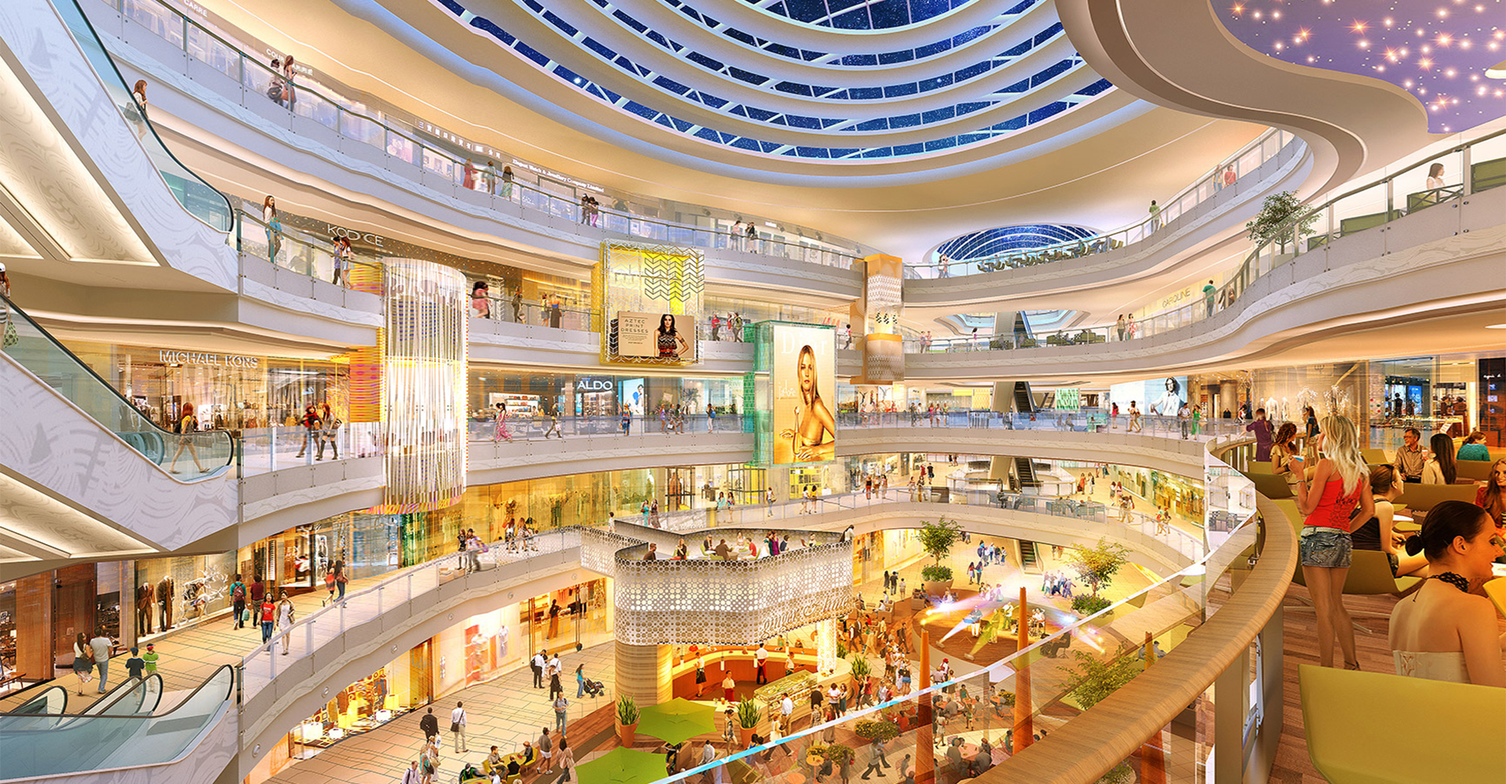
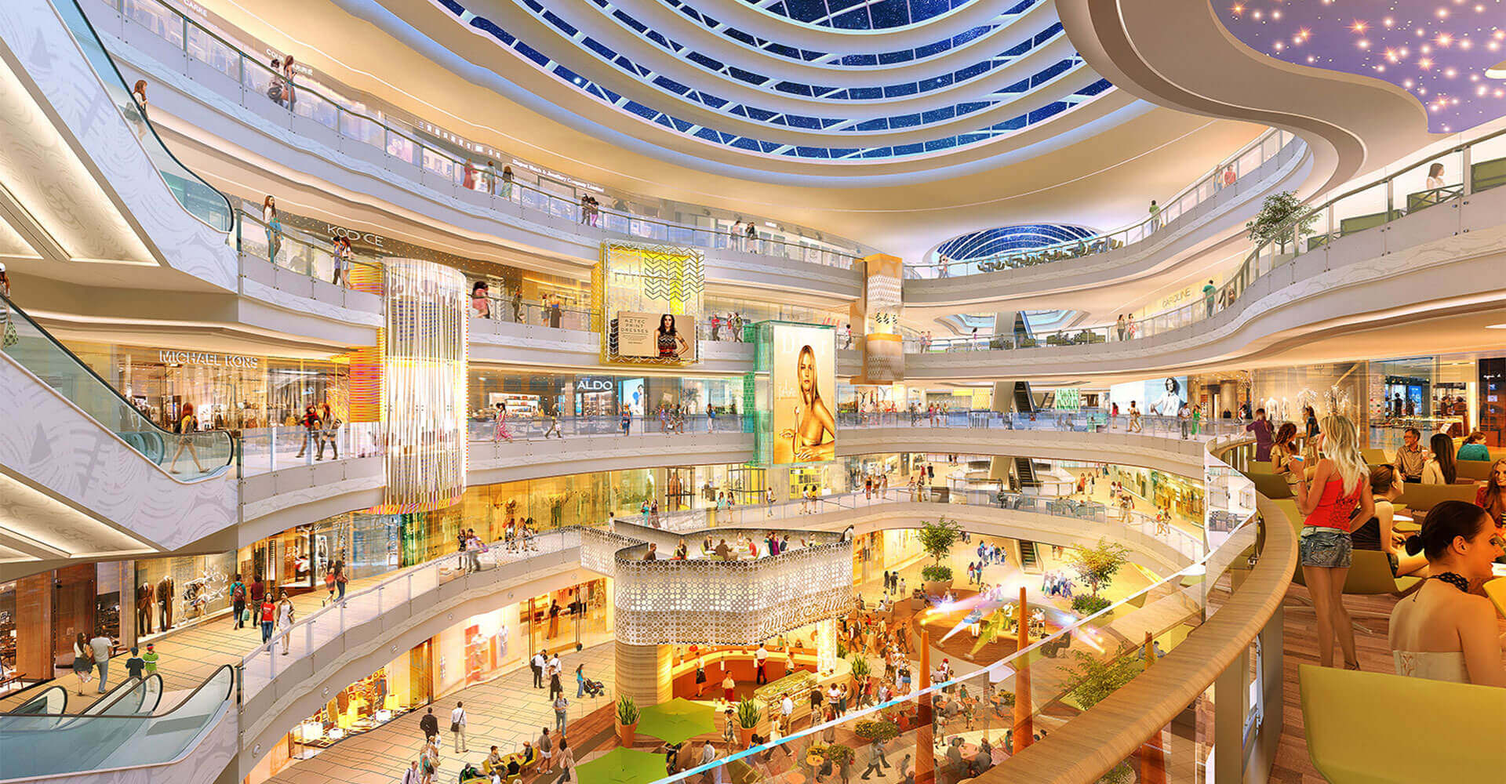
upload

diff --git a/css/index.css b/css/index.css
@@ -1,1 +1,1 @@
-body{overflow-x:hidden}.wrapper{overflow:hidden;width:100%;height:100%;position:relative}.cover{background-size:cover;background-position:50%;background-repeat:no-repeat;width:100%;height:100%;background-attachment:fixed}.absolute{position:absolute}.shadom_20{box-shadow:0 0 20px rgba(0,0,0,.7)}.shadom_10{box-shadow:0 0 10px rgba(0,0,0,.7)}div[class*=section]{width:100vw;height:100vh;overflow:hidden;position:relative}.ground{background-image:url(../images/banner.png)}div.section_1{min-height:538vh}div.section_2 .pro{width:110%;height:110%;background-image:url(../images/s1.png)}div.section_3{height:100vh}div.section_3 .pro{width:100%;height:100%;background-image:url(../images/s3.png);background-attachment:inherit}div[class*=motion]{width:100vw;height:110vh}.double .motion_0{height:100vh;top:0;left:0;background-color:#000}.double .motion_0 .test{display:inline-block;float:left}.double .motion_0 .wrapper{width:400vw}.double .motion_0 .img1{width:100vw;height:100%;background-image:url(../images/s0.jpg);background-position:center;background-size:auto 130%;float:left;z-index:0}.double .motion_0 .desc_1{width:636px;height:100%;background-image:url(../images/s0_2.png);float:left;z-index:2;color:#fff}.double .motion_0 .desc_1 .desc-box{width:370px;height:330px;left:-22%}.double .motion_0 .desc_1 h2{font-size:103px;font-weight:bolder;font-family:'Century Gothic'}.double .motion_0 .desc_1 span{display:inline-block;font-size:32px;margin:10px 0 20px}.double .motion_0 .desc_1 p{font-size:16px;line-height:26px;color:#fff;margin-bottom:30px}.double .motion_0 .desc_1 .line{width:52px;height:6px;background:#fff}.double .motion_0 .desc_2{width:636px;height:100%;background-image:url(../images/s0_4.png);float:left;z-index:2;color:#fff}.double .motion_0 .desc_2 .desc-box{width:370px;height:330px;left:-22%}.double .motion_0 .desc_2 h2{font-size:103px;font-weight:bolder;font-family:'Century Gothic'}.double .motion_0 .desc_2 span{display:inline-block;font-size:32px;margin:10px 0 20px}.double .motion_0 .desc_2 p{font-size:16px;line-height:26px;color:#fff;margin-bottom:30px}.double .motion_0 .desc_2 .line{width:52px;height:6px;background:#fff}.double .motion_0 .desc_3{width:636px;height:100%;background-image:url(../images/s0_4.png);float:left;z-index:2;color:#fff}.double .motion_0 .desc_3 .desc-box{width:370px;height:330px;left:-22%}.double .motion_0 .desc_3 h2{font-size:103px;font-weight:bolder;font-family:'Century Gothic'}.double .motion_0 .desc_3 span{display:inline-block;font-size:32px;margin:10px 0 20px}.double .motion_0 .desc_3 p{font-size:16px;line-height:26px;color:#fff;margin-bottom:30px}.double .motion_0 .desc_3 .line{width:52px;height:6px;background:#fff}.double .motion_0 .img2{width:100vw;height:100%;transform:translateX(100%);background-image:url(../images/s0_1.jpg);background-repeat:no-repeat;background-position:center;background-size:auto 115%;float:left;z-index:1}.double .motion_0 .img3{width:100vw;height:100%;transform:translateX(100%);background-image:url(../images/s0_2.jpg);background-repeat:no-repeat;background-position:center;background-size:auto 125%;float:left;z-index:1}.double .motion_0 .img4{width:100vw;height:100%;transform:translateX(100%);background-image:url(../images/s0_3.jpg);background-repeat:no-repeat;background-position:center;background-size:auto 120%;float:left;z-index:1}.double .motion_1{height:110vh;top:0;left:0;z-index:0}.double .motion_1 .pro{width:100%;height:100%;background-image:url(../images/s2.jpg);background-attachment:inherit}.double .motion_1 .img1{position:absolute;top:0;left:0;width:100%;height:100%;background:url(../images/s2_1.png)}.double .motion_1 .img2{position:absolute;top:0;left:0;width:100%;height:100%;background:url(../images/s2_2.png)}.double .motion_1 .desc{text-align:center;color:#004d8e;height:180px}.double .motion_1 .desc h2{font-size:65px;font-weight:lighter}.double .motion_1 .desc .font{font-size:65px}.double .motion_1 .desc em{font-weight:700}.double .motion_1 .desc span{font-weight:400}.double .motion_3{top:0;left:0}.double .motion_3 .pro{width:100%;height:100%;background-image:url(../images/s1.png);background-attachment:inherit}.double .motion_3 .img1{position:absolute;right:-32%;top:-32%;width:1580px;height:auto}.double .motion_3 .img1 .cicle-img{position:absolute;width:1283px;height:1100px;top:16%;right:10%;background:url(../images/s1_2.png) no-repeat center top/cover;background-size:110%;z-index:-1}.double .motion_3 .img2{width:663px;height:735px;right:-25%;top:-14%}.double .motion_3 .img3{width:196px;height:211px;right:-40%;top:-164%}.double .motion_3 .img4{width:156px;height:330px;right:-60%;top:-160%}.double .motion_3 .img5{width:203px;height:273px;top:-35%;left:-15%}.double .motion_3 .img6{width:164px;height:274px;top:0;margin-left:0}.double .motion_3 .desc{width:550px;height:340px;color:#fff;left:-38%;top:-23%}.double .motion_3 .desc h3{font-size:106px;text-transform:uppercase;font-family:'Century Gothic';font-weight:bolder;line-height:95px}.double .motion_3 .desc p{font-weight:bolder;font-size:50px;color:#ff6000;margin:10px 0}.double .motion_3 .desc span{display:inline-block;font-size:16px;line-height:28px;width:79%}.double .motion_3 .desc .more{cursor:pointer;background:#ff6000;font-size:16px;text-align:center;width:82px;height:82px;border-radius:50%;padding-top:13px;margin-top:15px}.double .motion_3 .desc .more i{display:inline-block;background:url(../images/icon1.png) no-repeat center;width:37px;height:34px}.double .motion_2{top:0;left:0}.double .motion_2 .pro{width:100%;height:100%;background-image:url(../images/s3.png);background-attachment:inherit}.double .motion_4{top:0;left:0;z-index:0}.double .motion_4 .pro{width:100%;height:100%;background-image:url(../images/s4.png);background-attachment:inherit}.double .motion_4 .img1{left:-100%;top:-26%;width:1510px;height:auto}.double .motion_4 .img2{left:-25%;top:10%;height:auto;width:964px;height:573px;z-index:1}.double .motion_4 .img3{left:-10%;top:-46%;height:auto;width:78px;height:110px;z-index:0}.double .motion_4 .img4{right:-30%;top:70%;height:auto;width:560px;height:409px;margin-right:0}.double .motion_4 .img5{right:0;top:45%;height:auto;width:176px;height:201px;margin-right:0}.double .motion_4 .img6{right:27%;bottom:15%;height:auto;width:110px;height:58px;margin-bottom:0;margin-right:0}.double .motion_4 .desc{width:610px;height:340px;color:#fff;left:65%;top:-13%}.double .motion_4 .desc h3{font-size:79px;text-transform:uppercase;font-family:'Century Gothic';font-weight:bolder;line-height:70px}.double .motion_4 .desc p{font-weight:bolder;font-size:40px;color:#fff;margin:10px 0}.double .motion_4 .desc span{display:inline-block;font-size:16px;line-height:28px;width:79%}.double .motion_4 .desc .more{cursor:pointer;background:#007954;font-size:16px;text-align:center;width:82px;height:82px;border-radius:50%;padding-top:13px;margin-top:15px}.double .motion_4 .desc .more i{display:inline-block;background:url(../images/icon1.png) no-repeat center;width:37px;height:34px}.double .motion_5{top:0;left:0}.double .motion_5 .pro{width:100%;height:100%;background-image:url(../images/s5.png);background-attachment:inherit}.double .motion_6{top:0;left:0;z-index:0;overflow:hidden}.double .motion_6 .pro{width:100%;height:100%;background-image:url(../images/s6.png);background-attachment:inherit}.double .motion_6 .img1{left:-115%;top:-81%;width:2435px;height:auto}.double .motion_6 .img2{left:-23%;top:17%;width:466px;height:466px;z-index:1}.double .motion_6 .img-box{z-index:1}.double .motion_6 .img3{left:-31%;top:-26%;width:568px;height:490px;z-index:0}.double .motion_6 .img4{left:58%;top:-38%;width:71px;height:86px;z-index:0}.double .motion_6 .img5{left:13%;top:-32%;width:224px;height:235px;z-index:0}.double .motion_6 .img6{left:12%;top:14%;width:147px;height:109px;z-index:0}.double .motion_6 .img7{left:-36%;top:16%;width:705px}.double .motion_6 .cicle{width:890px;height:110vh;background:url(../images/s6_7.png) no-repeat center/cover;background-size:110%}.double .motion_6 .desc{width:460px;height:340px;color:#fff;left:55%;top:-12%;z-index:1}.double .motion_6 .desc h3{font-size:84px;text-transform:uppercase;font-family:'Century Gothic';font-weight:bolder;line-height:82px}.double .motion_6 .desc p{font-weight:bolder;font-size:30px;color:#f34456;margin:20px 0}.double .motion_6 .desc span{display:inline-block;font-size:14px;line-height:28px;width:79%;color:#f34456;font-family:'Century Gothic'}.double .motion_6 .desc .more{cursor:pointer;background:#ff9ead;font-size:16px;text-align:center;width:82px;height:82px;border-radius:50%;padding-top:13px;margin-top:15px}.double .motion_6 .desc .more i{display:inline-block;background:url(../images/icon1.png) no-repeat center;width:37px;height:34px}.double .motion_6 .desc .more>div{color:#fff}.motion_2 .pro{width:100%;height:100%;background-image:url(../images/motion_2_w.jpg);background-attachment:inherit}.motion_2 .img1{z-index:50;width:706px;height:706px}.motion_2 .img2{position:absolute;left:78%;top:35%;transform:translate(-78%,-35%)}.motion_2 .img3{position:absolute;left:78.25%;top:75.5%;transform:translate(-78.25%,-75.5%)}.motion_2 .img4{position:absolute;left:22.5%;top:35%;transform:translate(-22.5%,-35%)}.motion_2 .img5{position:absolute;left:22.5%;top:77%;transform:translate(-22.5%,-77%)}.motion_5 .img1{position:absolute;right:0;top:0}.motion_5 .img2{position:absolute;left:34.7%;top:25.5%}.motion_5 .img3{position:absolute;left:34.7%;top:17%}.motion_5 .img3-cicle{position:absolute;right:0;top:0}.motion_5 .img3-cicle-1{right:12%;top:15%}.motion_5 .img3-cicle-2{right:7%;top:12.5%}.motion_5 .img3-cicle-3{right:6.2%;top:6.3%}.motion_5 .img3-arrow{position:absolute;left:-13%;bottom:11%}.motion_5 .img4{position:absolute;left:76.7%;top:6%}.double .motion_5 .desc{width:550px;height:340px;color:#f72a64;left:-38%;top:-23%}.double .motion_5 .desc h3{font-size:86px;text-transform:uppercase;font-family:'Century Gothic';font-weight:bolder;line-height:70px}.double .motion_5 .desc p{font-size:50px;color:#f72a64;margin:25px 0 20px}.double .motion_5 .desc span{display:inline-block;font-size:16px;line-height:28px;color:#fff;width:79%}.double .motion_5 .desc .more{cursor:pointer;background:#f72a64;font-size:16px;text-align:center;color:#fff;width:82px;height:82px;border-radius:50%;padding-top:13px;margin-top:15px}.double .motion_5 .desc .more i{display:inline-block;background:url(../images/icon1.png) no-repeat center;width:37px;height:34px}.parallax{transform:translate3d(0,0,0)}
+body{overflow-x:hidden}.wrapper{overflow:hidden;width:100%;height:100%;position:relative}.cover{background-size:cover;background-position:50%;background-repeat:no-repeat;width:100%;height:100%;background-attachment:fixed}.absolute{position:absolute}.shadom_20{box-shadow:0 0 20px rgba(0,0,0,.7)}.shadom_10{box-shadow:0 0 10px rgba(0,0,0,.7)}div[class*=section]{width:100vw;height:100vh;overflow:hidden;position:relative}.ground{background-image:url(../images/banner.jpg)}div.section_1{min-height:538vh}div.section_2 .pro{width:110%;height:110%;background-image:url(../images/s1.png)}div.section_3{height:100vh}div.section_3 .pro{width:100%;height:100%;background-image:url(../images/s3.png);background-attachment:inherit}div[class*=motion]{width:100vw;height:110vh}.double .motion_0{height:100vh;top:0;left:0;background-color:#000}.double .motion_0 .test{display:inline-block;float:left}.double .motion_0 .wrapper{width:400vw}.double .motion_0 .img1{width:100vw;height:100%;background-image:url(../images/s0.jpg);background-position:center;background-size:auto 130%;float:left;z-index:0}.double .motion_0 .desc_1{width:636px;height:100%;background-image:url(../images/s0_2.png);float:left;z-index:2;color:#fff}.double .motion_0 .desc_1 .desc-box{width:370px;height:330px;left:-22%}.double .motion_0 .desc_1 h2{font-size:103px;font-weight:bolder;font-family:'Century Gothic'}.double .motion_0 .desc_1 span{display:inline-block;font-size:32px;margin:10px 0 20px}.double .motion_0 .desc_1 p{font-size:16px;line-height:26px;color:#fff;margin-bottom:30px}.double .motion_0 .desc_1 .line{width:52px;height:6px;background:#fff}.double .motion_0 .desc_2{width:636px;height:100%;background-image:url(../images/s0_4.png);float:left;z-index:2;color:#fff}.double .motion_0 .desc_2 .desc-box{width:370px;height:330px;left:-22%}.double .motion_0 .desc_2 h2{font-size:103px;font-weight:bolder;font-family:'Century Gothic'}.double .motion_0 .desc_2 span{display:inline-block;font-size:32px;margin:10px 0 20px}.double .motion_0 .desc_2 p{font-size:16px;line-height:26px;color:#fff;margin-bottom:30px}.double .motion_0 .desc_2 .line{width:52px;height:6px;background:#fff}.double .motion_0 .desc_3{width:636px;height:100%;background-image:url(../images/s0_4.png);float:left;z-index:2;color:#fff}.double .motion_0 .desc_3 .desc-box{width:370px;height:330px;left:-22%}.double .motion_0 .desc_3 h2{font-size:103px;font-weight:bolder;font-family:'Century Gothic'}.double .motion_0 .desc_3 span{display:inline-block;font-size:32px;margin:10px 0 20px}.double .motion_0 .desc_3 p{font-size:16px;line-height:26px;color:#fff;margin-bottom:30px}.double .motion_0 .desc_3 .line{width:52px;height:6px;background:#fff}.double .motion_0 .img2{width:100vw;height:100%;transform:translateX(100%);background-image:url(../images/s0_1.jpg);background-repeat:no-repeat;background-position:center;background-size:auto 115%;float:left;z-index:1}.double .motion_0 .img3{width:100vw;height:100%;transform:translateX(100%);background-image:url(../images/s0_2.jpg);background-repeat:no-repeat;background-position:center;background-size:auto 125%;float:left;z-index:1}.double .motion_0 .img4{width:100vw;height:100%;transform:translateX(100%);background-image:url(../images/s0_3.jpg);background-repeat:no-repeat;background-position:center;background-size:auto 120%;float:left;z-index:1}.double .motion_1{height:110vh;top:0;left:0;z-index:0}.double .motion_1 .pro{width:100%;height:100%;background-image:url(../images/s2.jpg);background-attachment:inherit}.double .motion_1 .img1{position:absolute;top:0;left:0;width:100%;height:100%;background:url(../images/s2_1.png)}.double .motion_1 .img2{position:absolute;top:0;left:0;width:100%;height:100%;background:url(../images/s2_2.png)}.double .motion_1 .desc{text-align:center;color:#004d8e;height:180px}.double .motion_1 .desc h2{font-size:65px;font-weight:lighter}.double .motion_1 .desc .font{font-size:65px}.double .motion_1 .desc em{font-weight:700}.double .motion_1 .desc span{font-weight:400}.double .motion_3{top:0;left:0}.double .motion_3 .pro{width:100%;height:100%;background-image:url(../images/s1.png);background-attachment:inherit}.double .motion_3 .img1{position:absolute;right:-32%;top:-32%;width:1580px;height:auto}.double .motion_3 .img1 .cicle-img{position:absolute;width:1283px;height:1100px;top:16%;right:10%;background:url(../images/s1_2.png) no-repeat center top/cover;background-size:110%;z-index:-1}.double .motion_3 .img2{width:663px;height:735px;right:-25%;top:-14%}.double .motion_3 .img3{width:196px;height:211px;right:-40%;top:-164%}.double .motion_3 .img4{width:156px;height:330px;right:-60%;top:-160%}.double .motion_3 .img5{width:203px;height:273px;top:-35%;left:-15%}.double .motion_3 .img6{width:164px;height:274px;top:0;margin-left:0}.double .motion_3 .desc{width:550px;height:340px;color:#fff;left:-38%;top:-23%}.double .motion_3 .desc h3{font-size:106px;text-transform:uppercase;font-family:'Century Gothic';font-weight:bolder;line-height:95px}.double .motion_3 .desc p{font-weight:bolder;font-size:50px;color:#ff6000;margin:10px 0}.double .motion_3 .desc span{display:inline-block;font-size:16px;line-height:28px;width:79%}.double .motion_3 .desc .more{cursor:pointer;background:#ff6000;font-size:16px;text-align:center;width:82px;height:82px;border-radius:50%;padding-top:13px;margin-top:15px}.double .motion_3 .desc .more i{display:inline-block;background:url(../images/icon1.png) no-repeat center;width:37px;height:34px}.double .motion_2{top:0;left:0}.double .motion_2 .pro{width:100%;height:100%;background-image:url(../images/s3.png);background-attachment:inherit}.double .motion_4{top:0;left:0;z-index:0}.double .motion_4 .pro{width:100%;height:100%;background-image:url(../images/s4.png);background-attachment:inherit}.double .motion_4 .img1{left:-100%;top:-26%;width:1510px;height:auto}.double .motion_4 .img2{left:-25%;top:10%;height:auto;width:964px;height:573px;z-index:1}.double .motion_4 .img3{left:-10%;top:-46%;height:auto;width:78px;height:110px;z-index:0}.double .motion_4 .img4{right:-30%;top:70%;height:auto;width:560px;height:409px;margin-right:0}.double .motion_4 .img5{right:0;top:45%;height:auto;width:176px;height:201px;margin-right:0}.double .motion_4 .img6{right:27%;bottom:15%;height:auto;width:110px;height:58px;margin-bottom:0;margin-right:0}.double .motion_4 .desc{width:610px;height:340px;color:#fff;left:65%;top:-13%}.double .motion_4 .desc h3{font-size:79px;text-transform:uppercase;font-family:'Century Gothic';font-weight:bolder;line-height:70px}.double .motion_4 .desc p{font-weight:bolder;font-size:40px;color:#fff;margin:10px 0}.double .motion_4 .desc span{display:inline-block;font-size:16px;line-height:28px;width:79%}.double .motion_4 .desc .more{cursor:pointer;background:#007954;font-size:16px;text-align:center;width:82px;height:82px;border-radius:50%;padding-top:13px;margin-top:15px}.double .motion_4 .desc .more i{display:inline-block;background:url(../images/icon1.png) no-repeat center;width:37px;height:34px}.double .motion_5{top:0;left:0}.double .motion_5 .pro{width:100%;height:100%;background-image:url(../images/s5.jpg);background-attachment:inherit}.double .motion_6{top:0;left:0;z-index:0;overflow:hidden}.double .motion_6 .pro{width:100%;height:100%;background-image:url(../images/s6.png);background-attachment:inherit}.double .motion_6 .img1{left:-115%;top:-81%;width:2435px;height:auto}.double .motion_6 .img2{left:-23%;top:17%;width:466px;height:466px;z-index:1}.double .motion_6 .img-box{z-index:1}.double .motion_6 .img3{left:-31%;top:-26%;width:568px;height:490px;z-index:0}.double .motion_6 .img4{left:58%;top:-38%;width:71px;height:86px;z-index:0}.double .motion_6 .img5{left:13%;top:-32%;width:224px;height:235px;z-index:0}.double .motion_6 .img6{left:12%;top:14%;width:147px;height:109px;z-index:0}.double .motion_6 .img7{left:-36%;top:16%;width:705px}.double .motion_6 .cicle{width:890px;height:110vh;background:url(../images/s6_7.png) no-repeat center/cover;background-size:110%}.double .motion_6 .desc{width:460px;height:340px;color:#fff;left:55%;top:-12%;z-index:1}.double .motion_6 .desc h3{font-size:84px;text-transform:uppercase;font-family:'Century Gothic';font-weight:bolder;line-height:82px}.double .motion_6 .desc p{font-weight:bolder;font-size:30px;color:#f34456;margin:20px 0}.double .motion_6 .desc span{display:inline-block;font-size:14px;line-height:28px;width:79%;color:#f34456;font-family:'Century Gothic'}.double .motion_6 .desc .more{cursor:pointer;background:#ff9ead;font-size:16px;text-align:center;width:82px;height:82px;border-radius:50%;padding-top:13px;margin-top:15px}.double .motion_6 .desc .more i{display:inline-block;background:url(../images/icon1.png) no-repeat center;width:37px;height:34px}.double .motion_6 .desc .more>div{color:#fff}.motion_2 .pro{width:100%;height:100%;background-image:url(../images/motion_2_w.jpg);background-attachment:inherit}.motion_2 .img1{z-index:50;width:706px;height:706px}.motion_2 .img2{position:absolute;left:78%;top:35%;transform:translate(-78%,-35%)}.motion_2 .img3{position:absolute;left:78.25%;top:75.5%;transform:translate(-78.25%,-75.5%)}.motion_2 .img4{position:absolute;left:22.5%;top:35%;transform:translate(-22.5%,-35%)}.motion_2 .img5{position:absolute;left:22.5%;top:77%;transform:translate(-22.5%,-77%)}.motion_5 .img1{position:absolute;right:0;top:0}.motion_5 .img2{position:absolute;left:34.7%;top:25.5%}.motion_5 .img3{position:absolute;left:34.7%;top:17%}.motion_5 .img3-cicle{position:absolute;right:0;top:0}.motion_5 .img3-cicle-1{right:12%;top:15%}.motion_5 .img3-cicle-2{right:7%;top:12.5%}.motion_5 .img3-cicle-3{right:6.2%;top:6.3%}.motion_5 .img3-arrow{position:absolute;left:-13%;bottom:11%}.motion_5 .img4{position:absolute;left:76.7%;top:6%}.double .motion_5 .desc{width:550px;height:340px;color:#f72a64;left:-38%;top:-23%}.double .motion_5 .desc h3{font-size:86px;text-transform:uppercase;font-family:'Century Gothic';font-weight:bolder;line-height:70px}.double .motion_5 .desc p{font-size:50px;color:#f72a64;margin:25px 0 20px}.double .motion_5 .desc span{display:inline-block;font-size:16px;line-height:28px;color:#fff;width:79%}.double .motion_5 .desc .more{cursor:pointer;background:#f72a64;font-size:16px;text-align:center;color:#fff;width:82px;height:82px;border-radius:50%;padding-top:13px;margin-top:15px}.double .motion_5 .desc .more i{display:inline-block;background:url(../images/icon1.png) no-repeat center;width:37px;height:34px}.parallax{transform:translate3d(0,0,0)}

diff --git a/css/index.less b/css/index.less
@@ -35,7 +35,7 @@ div[class*='section']{
 }
 
 .ground{
-	background-image:url('../images/banner.png');
+	background-image:url('../images/banner.jpg');
 }
 
 div.section_1{
@@ -477,7 +477,7 @@ div[class*='motion']{
 			top: 0;left: 0;
 			.pro{
 				width: 100%;height: 100%;
-				background-image:url('../images/s5.png');
+				background-image:url('../images/s5.jpg');
 				background-attachment: inherit;
 			}
 		}
